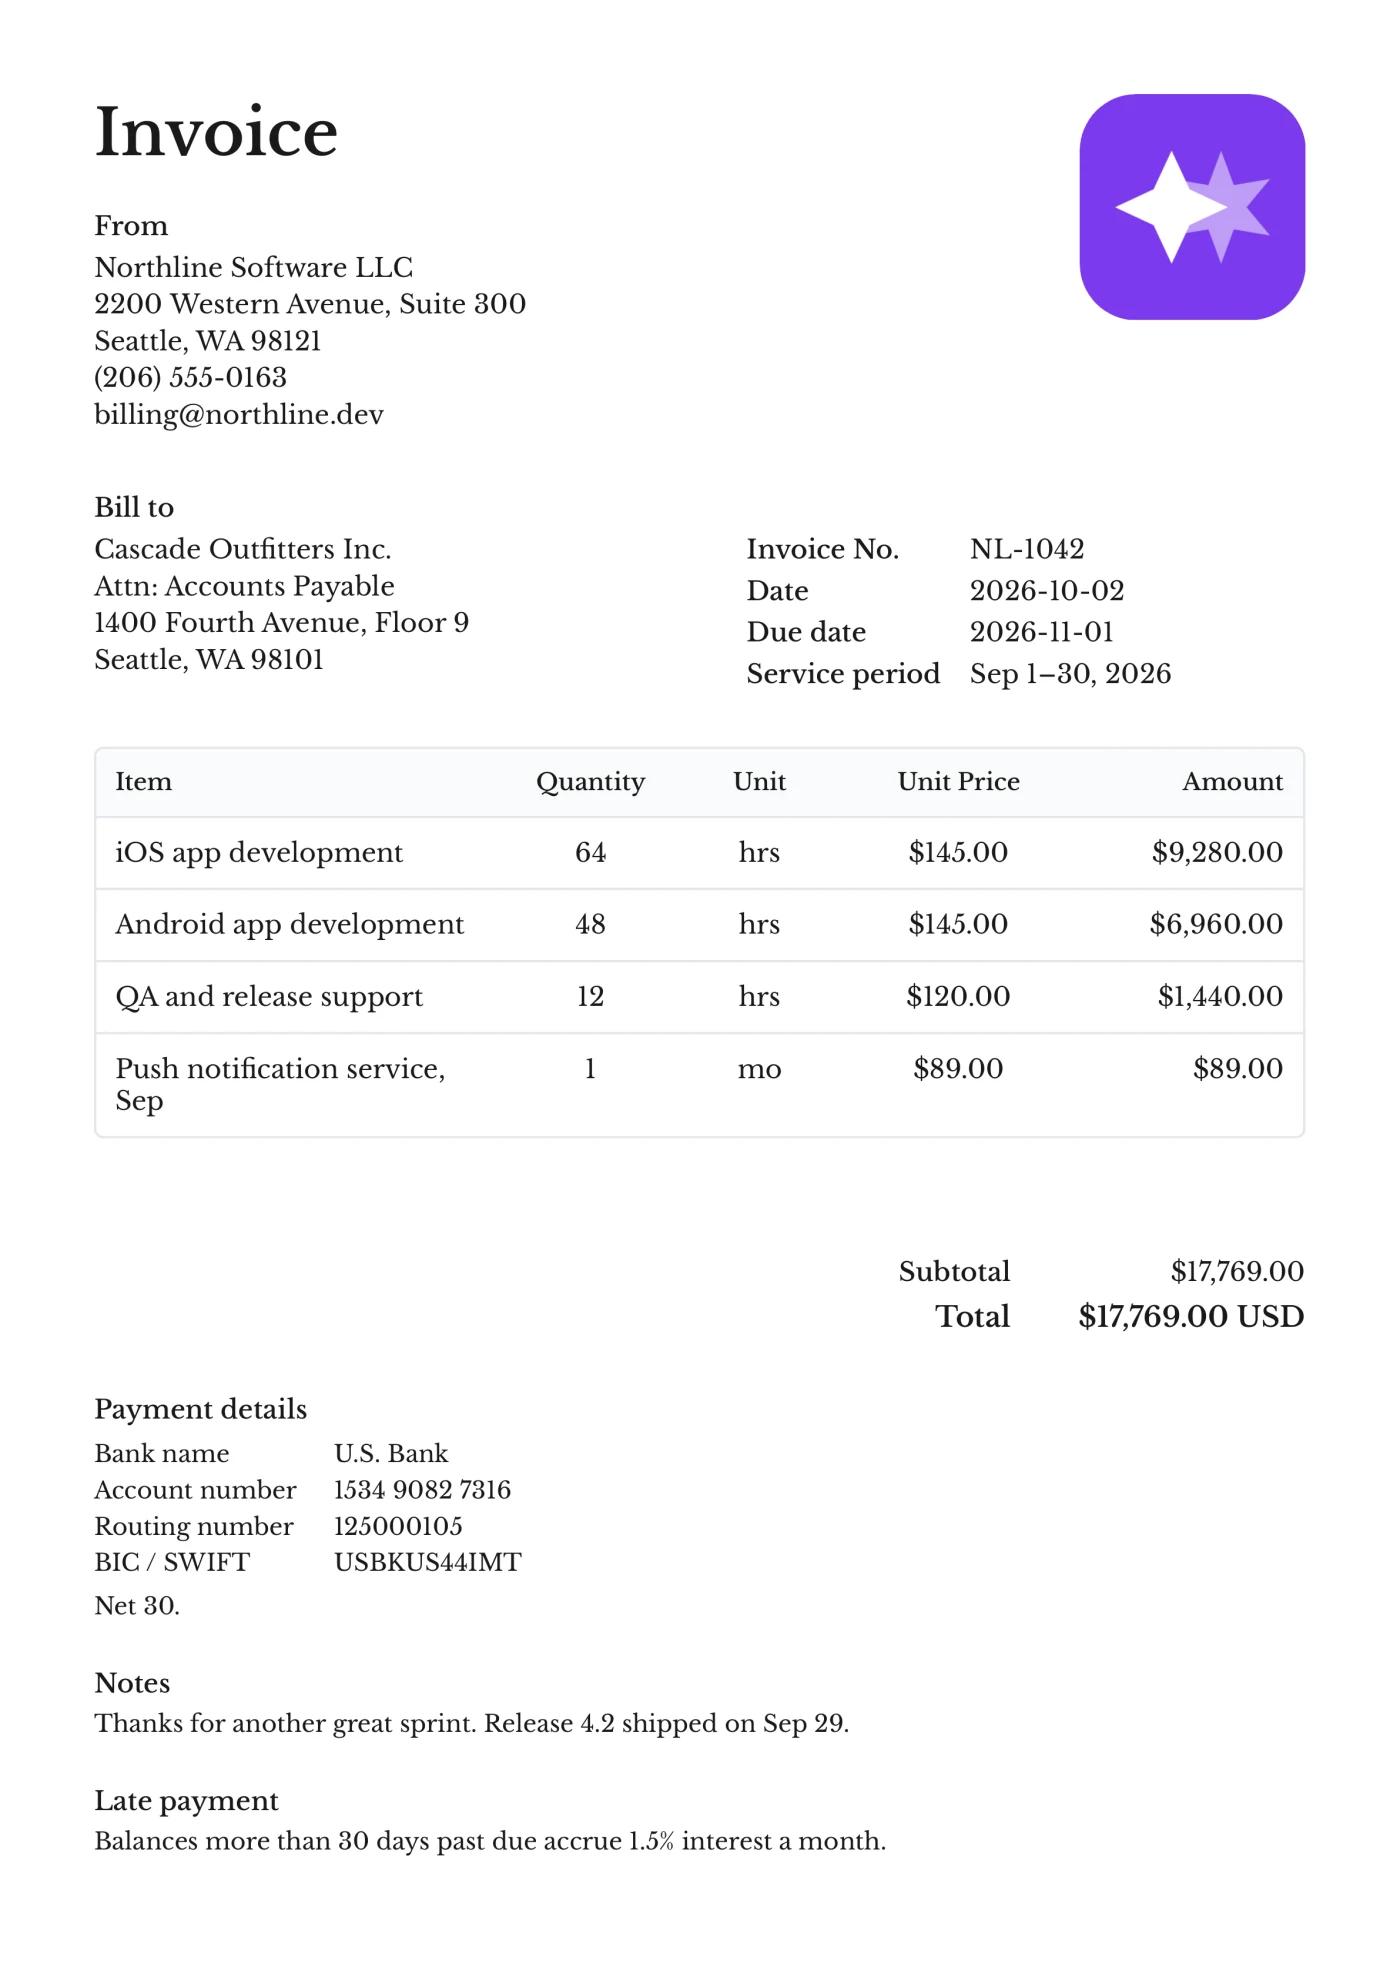
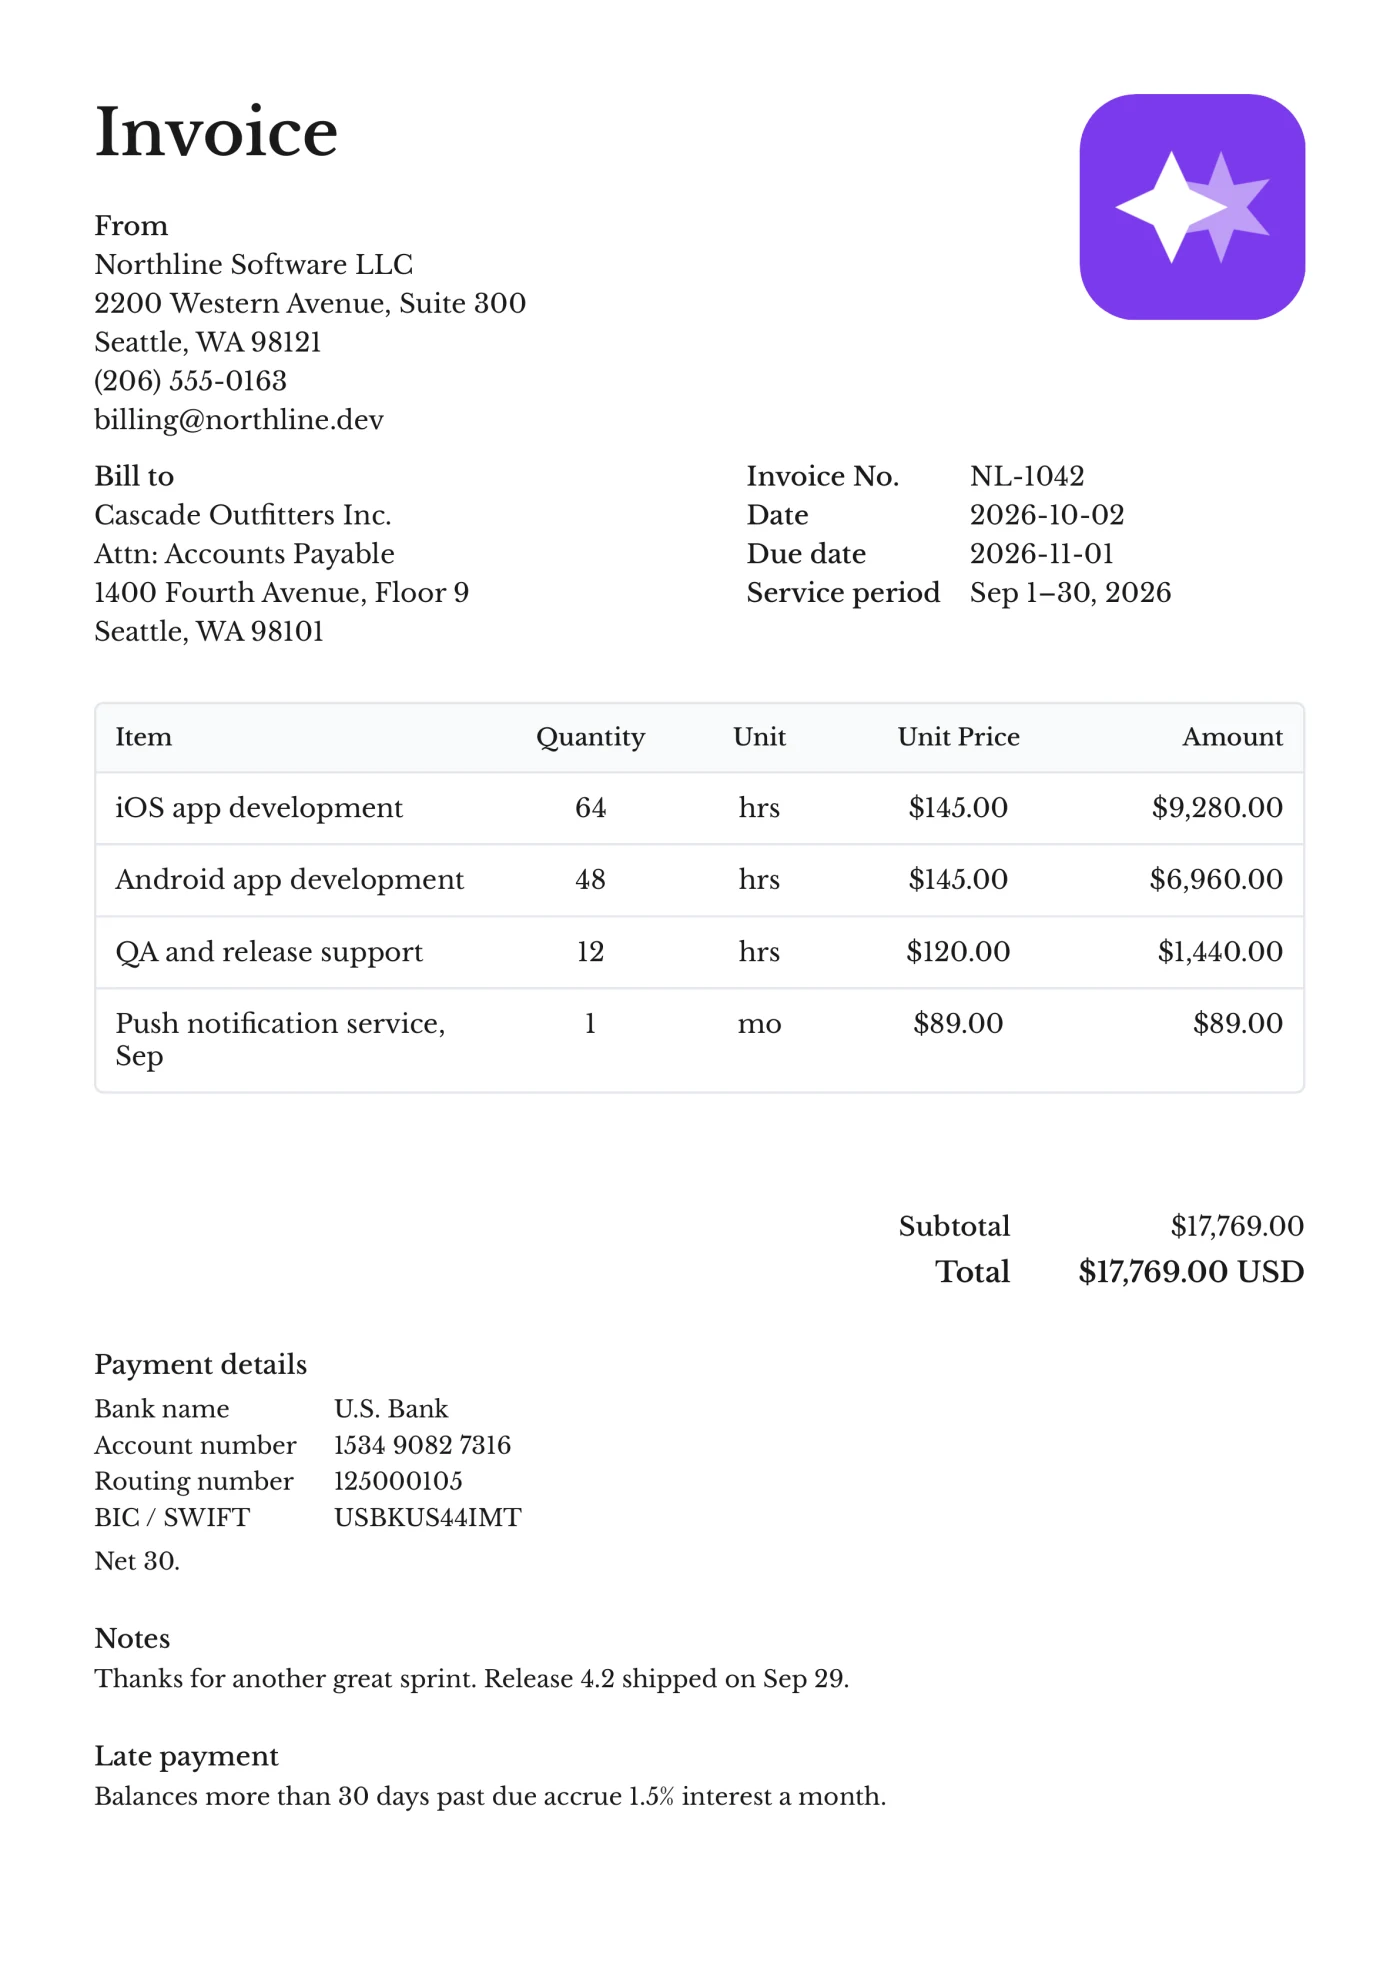
Align invoice details with address lines

diff --git a/components/pdf/invoice-pdf-details.tsx b/components/pdf/invoice-pdf-details.tsx
@@ -1,7 +1,7 @@
 import { StyleSheet, Text, View } from "@react-pdf/renderer";
 import { PdfMultilineText } from "~/components/pdf/invoice-pdf-text";
 import type { Invoice, InvoiceDetailRow } from "~/types";
-import { pdfRoleStyle } from "~/utils/pdf-styles";
+import { PDF_ROW_LINE_HEIGHT, pdfRoleStyle } from "~/utils/pdf-styles";
 
 const styles = StyleSheet.create({
   detailsSection: {
@@ -19,25 +19,26 @@ const styles = StyleSheet.create({
     flex: 1
   },
   clientLabel: {
-    marginBottom: 4,
     fontWeight: "medium",
-    fontSize: 12
+    fontSize: 12,
+    lineHeight: PDF_ROW_LINE_HEIGHT
   },
   shippingBlock: {
     marginTop: 12
   },
   detailsField: {
     flexDirection: "row",
-    marginBottom: 4,
     alignItems: "center"
   },
   detailsLabel: {
     width: "40%",
     fontSize: 10,
-    color: "#6b7280"
+    color: "#6b7280",
+    lineHeight: PDF_ROW_LINE_HEIGHT
   },
   detailsValue: {
-    flex: 1
+    flex: 1,
+    lineHeight: PDF_ROW_LINE_HEIGHT
   }
 });
 
@@ -58,21 +59,23 @@ export function InvoicePdfDetails({
 
   return (
     <View style={styles.detailsSection}>
-      {invoice.client.label && (
-        <Text
-          style={{
-            ...styles.clientLabel,
-            ...pdfRoleStyle(theme, "sectionLabel")
-          }}
-        >
-          {invoice.client.label}
-        </Text>
-      )}
       <View style={styles.detailsRow}>
         <View style={styles.clientInfo}>
+          {invoice.client.label && (
+            <Text
+              style={{
+                ...styles.clientLabel,
+                ...pdfRoleStyle(theme, "sectionLabel")
+              }}
+            >
+              {invoice.client.label}
+            </Text>
+          )}
           <PdfMultilineText
             text={invoice.client.content}
-            style={pdfRoleStyle(theme, "sectionContent", { marginBottom: 2 })}
+            style={pdfRoleStyle(theme, "sectionContent", {
+              lineHeight: PDF_ROW_LINE_HEIGHT
+            })}
           />
           {hasShipping && (
             <View style={styles.shippingBlock}>
@@ -89,7 +92,7 @@ export function InvoicePdfDetails({
               <PdfMultilineText
                 text={invoice.shipping.content}
                 style={pdfRoleStyle(theme, "sectionContent", {
-                  marginBottom: 2
+                  lineHeight: PDF_ROW_LINE_HEIGHT
                 })}
               />
             </View>

diff --git a/components/home/editor-preview.tsx b/components/home/editor-preview.tsx
@@ -113,7 +113,7 @@ function Field({
     <InvoiceInput
       {...props}
       readOnly
-      className={cn(className, "leading-[calc(1.25/0.875)]")}
+      className={cn("leading-[calc(1.25/0.875)]", className)}
     />
   );
 }
@@ -354,10 +354,10 @@ export function InvoicePage({ invoice }: { invoice: SampleInvoice }) {
             className="w-full text-5xl font-semibold"
             style={roleStyle(theme, "title")}
           />
-          <section className="flex flex-col gap-1">
+          <section className="flex flex-col">
             <Field
               value="From"
-              className="font-medium"
+              className="leading-paper-row font-medium"
               style={roleStyle(theme, "sectionLabel")}
             />
             <InvoiceTextArea
@@ -398,7 +398,7 @@ export function InvoicePage({ invoice }: { invoice: SampleInvoice }) {
           />
           <AddSectionLink>Add shipping address</AddSectionLink>
         </div>
-        <div className="flex flex-1 flex-col items-start justify-end">
+        <div className="flex flex-1 flex-col items-start">
           <div className="flex flex-col">
             <DetailRow
               theme={theme}
@@ -458,10 +458,10 @@ function ClientDetails({
   const contentStyle = roleStyle(theme, "sectionContent");
 
   return (
-    <section className="flex flex-col gap-1">
+    <section className="flex flex-col">
       <Field
         value="To"
-        className="font-medium"
+        className="leading-paper-row font-medium"
         style={roleStyle(theme, "sectionLabel")}
       />
       <div
@@ -495,7 +495,7 @@ function DetailRow({
       <div className="flex min-w-32 items-center" style={labelStyle}>
         <Field
           value={label}
-          className="field-sizing-content h-[unset]! w-auto min-w-fit py-0"
+          className="leading-paper-row field-sizing-content h-[unset]! w-auto min-w-fit py-0"
           style={labelStyle}
         />
       </div>
@@ -503,7 +503,7 @@ function DetailRow({
         value={value}
         placeholder={placeholder}
         suppressHydrationWarning
-        className="h-[unset]! w-full py-0"
+        className="leading-paper-row h-[unset]! w-full py-0"
         style={roleStyle(theme, "detailValue")}
       />
     </div>

diff --git a/components/pdf/invoice-pdf-header.tsx b/components/pdf/invoice-pdf-header.tsx
@@ -1,11 +1,13 @@
 import { Image as PDFImage, StyleSheet, Text, View } from "@react-pdf/renderer";
 import { PdfMultilineText } from "~/components/pdf/invoice-pdf-text";
 import type { Invoice } from "~/types";
-import { pdfRoleStyle } from "~/utils/pdf-styles";
+import { PDF_ROW_LINE_HEIGHT, pdfRoleStyle } from "~/utils/pdf-styles";
 
 const styles = StyleSheet.create({
   header: {
-    marginBottom: 20,
+    // The editor's 8px gap plus the two fields' 1px borders, at the PDF's
+    // 0.75 scale.
+    marginBottom: 7.5,
     flexDirection: "row",
     justifyContent: "space-between",
     alignItems: "flex-start"
@@ -23,13 +25,10 @@ const styles = StyleSheet.create({
     backgroundColor: "#FFF3E8",
     marginLeft: 24
   },
-  sellerInfo: {
-    marginBottom: 4
-  },
   sellerLabel: {
-    marginBottom: 4,
     fontWeight: "medium",
-    fontSize: 12
+    fontSize: 12,
+    lineHeight: PDF_ROW_LINE_HEIGHT
   }
 });
 
@@ -46,7 +45,7 @@ export function InvoicePdfHeader({
     <View style={styles.header}>
       <View style={styles.headerContent}>
         <Text style={pdfRoleStyle(theme, "title")}>{invoice.title}</Text>
-        <View style={styles.sellerInfo}>
+        <View>
           {invoice.seller.label && (
             <Text
               style={{
@@ -59,7 +58,9 @@ export function InvoicePdfHeader({
           )}
           <PdfMultilineText
             text={invoice.seller.content}
-            style={pdfRoleStyle(theme, "sectionContent", { marginBottom: 2 })}
+            style={pdfRoleStyle(theme, "sectionContent", {
+              lineHeight: PDF_ROW_LINE_HEIGHT
+            })}
           />
         </View>
       </View>

diff --git a/components/editor/invoice-details.tsx b/components/editor/invoice-details.tsx
@@ -96,7 +96,7 @@ function DetailRow({
           aria-label={`${placeholders.label} field label`}
           value={row.label}
           onChange={handleLabelChange}
-          className="field-sizing-content h-[unset]! w-auto min-w-fit py-0"
+          className="leading-paper-row field-sizing-content h-[unset]! w-auto min-w-fit py-0"
           style={labelStyle}
           placeholder={placeholders.label}
         />
@@ -106,7 +106,7 @@ function DetailRow({
         aria-label={row.label || placeholders.label}
         value={row.value}
         onChange={setValue}
-        className="h-[unset]! w-full py-0"
+        className="leading-paper-row h-[unset]! w-full py-0"
         style={valueStyle}
         placeholder={placeholders.value}
       />

diff --git a/components/editor/invoice-seller-details.tsx b/components/editor/invoice-seller-details.tsx
@@ -6,7 +6,7 @@ import { getTextStyles } from "~/utils/get-text-styles";
 
 export function InvoiceSellerDetails() {
   return (
-    <section className="flex flex-col gap-1">
+    <section className="flex flex-col">
       <SellerLabel />
       <SellerContent />
     </section>
@@ -21,7 +21,7 @@ function SellerLabel() {
     <InvoiceInput
       aria-label="Seller section label"
       value={seller.label}
-      className="font-medium"
+      className="leading-paper-row font-medium"
       onChange={value => setSeller(prev => ({ ...prev, label: value }))}
       placeholder="From"
       style={getTextStyles({

diff --git a/components/editor/invoice-client-details.tsx b/components/editor/invoice-client-details.tsx
@@ -6,7 +6,7 @@ import { getTextStyles } from "~/utils/get-text-styles";
 
 export function InvoiceClientDetails() {
   return (
-    <section className="flex flex-col gap-1">
+    <section className="flex flex-col">
       <ClientLabel />
       <ClientContent />
     </section>
@@ -21,7 +21,7 @@ function ClientLabel() {
     <InvoiceInput
       aria-label="Client section label"
       value={client.label}
-      className="font-medium"
+      className="leading-paper-row font-medium"
       onChange={value => setClient(prev => ({ ...prev, label: value }))}
       placeholder="To"
       style={getTextStyles({

diff --git a/utils/pdf-styles.ts b/utils/pdf-styles.ts
@@ -4,6 +4,11 @@ import { getFontWeight } from "~/utils/get-font-weight";
 import { getRoleSettings } from "~/utils/get-role-settings";
 import { scaleFontSize } from "~/utils/scale-font-size";
 
+// Line height shared by section labels, address lines and detail rows, the
+// PDF twin of the editor's leading-paper-row, so the details column lands on
+// the same lines as the address beside it.
+export const PDF_ROW_LINE_HEIGHT = 1.5;
+
 /**
  * Convert TextSettings to a PDF-compatible style object.
  * Handles font size scaling and weight mapping internally.

diff --git a/styles/globals.css b/styles/globals.css
@@ -371,6 +371,13 @@ code {
   }
 }
 
+/* A one-line paper input that steps at the address textarea's 1.5 line
+   height: the line plus the input's 2px border makes exactly 1.5em, so labels
+   and detail rows land on the same lines as the address beside them. */
+@theme {
+  --leading-paper-row: calc(1.5em - 2px);
+}
+
 @page {
   size: A4;
   margin: 16mm;

diff --git a/components/editor/invoice-editor.tsx b/components/editor/invoice-editor.tsx
@@ -429,7 +429,7 @@ function Mid() {
         <InvoiceClientDetails />
         <InvoiceShipping />
       </div>
-      <div className="flex flex-1 flex-col items-start justify-end">
+      <div className="flex flex-1 flex-col items-start">
         <InvoiceDetails />
       </div>
     </div>
